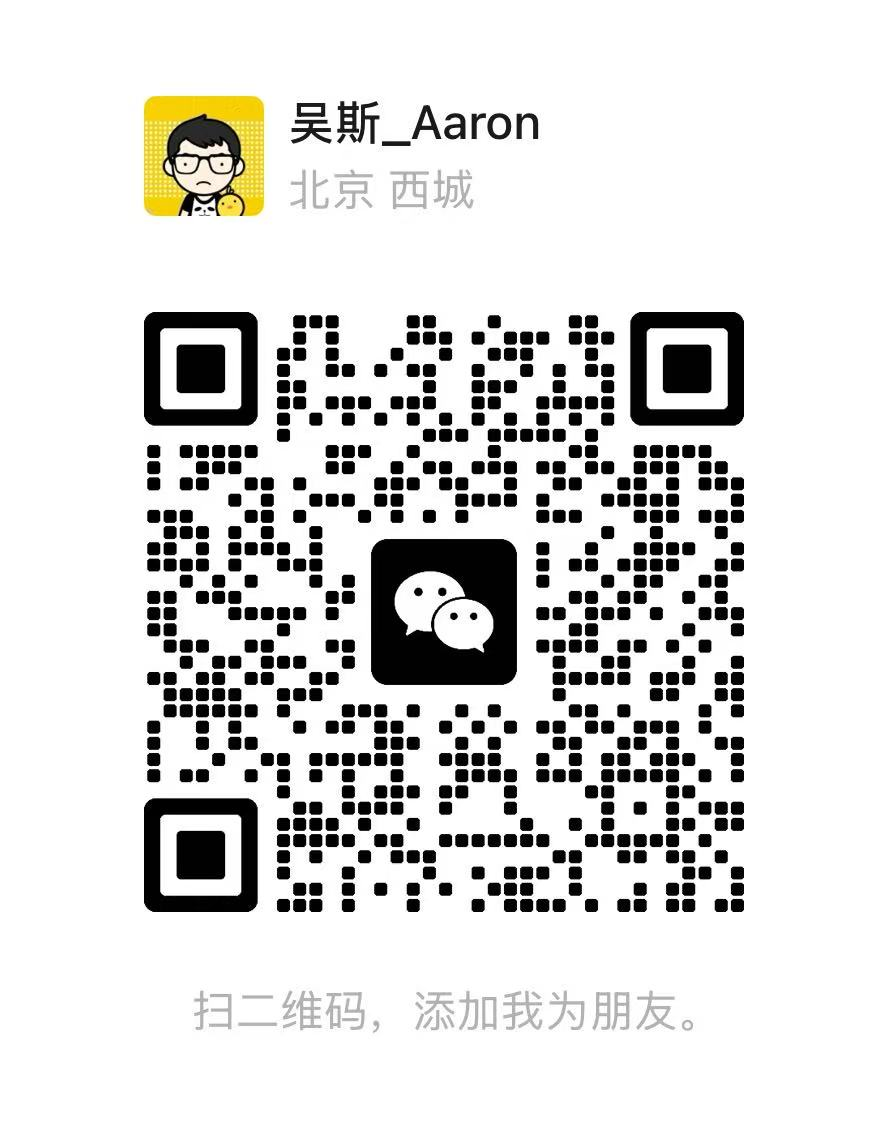
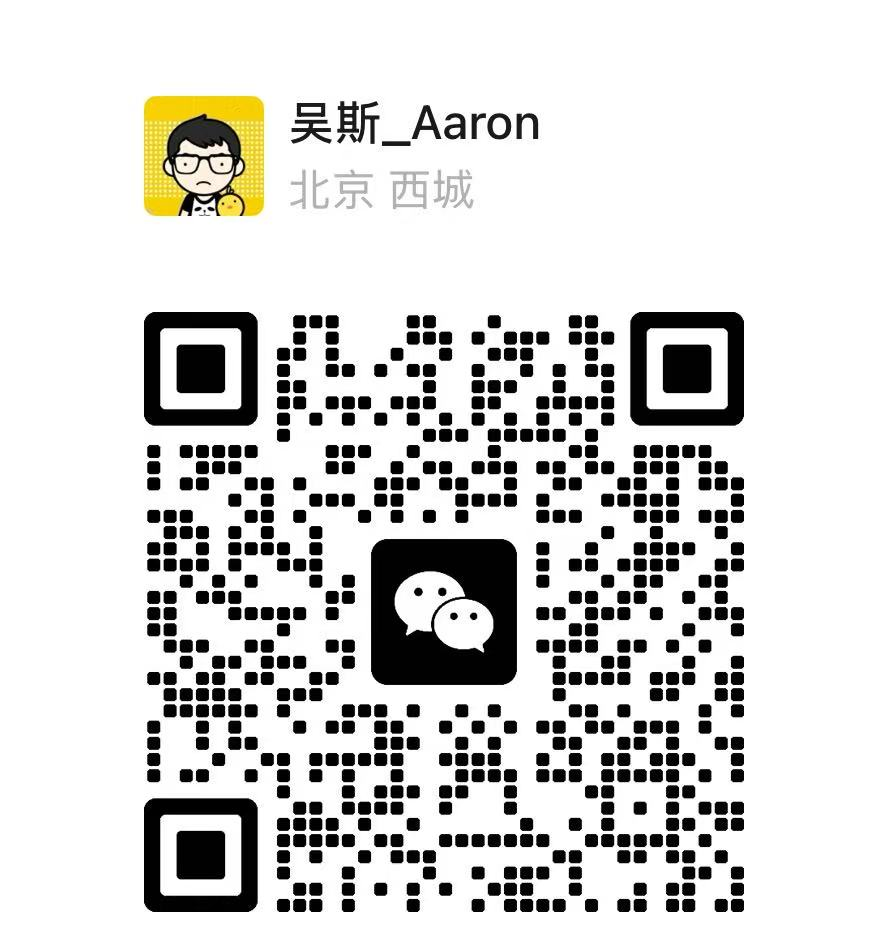
polish(联系): 裁掉二维码自带文字，说明改为'扫码加我·简单说明来意即可'

Changed region(s): [[0.152, 0.2747, 0.8514, 0.9768], [0.152, 0.0611, 0.6081, 0.2442]]

diff --git a/index.html b/index.html
@@ -184,7 +184,7 @@
   .cmethod svg{width:18px;height:18px;stroke:var(--brand)}
   .qr-card{display:inline-flex;flex-direction:column;align-items:center;margin-top:24px;padding:14px;border:1px solid var(--line);border-radius:16px;background:#fff;box-shadow:var(--shadow)}
   .qr-card img{width:220px;max-width:70vw;height:auto;border-radius:8px;display:block}
-  .qr-card figcaption{color:#111;font-size:12.5px;margin-top:8px}
+  .qr-card figcaption{color:#4a5060;font-size:13.5px;margin-top:10px;font-weight:500}
 
   /* Footer */
   footer{border-top:1px solid var(--line);padding:34px 0 46px;color:var(--fg-faint);font-size:13.5px}
@@ -327,7 +327,7 @@
       </div>
       <figure class="qr-card" style="margin:24px auto 0">
         <img src="assets/wechat-qr.png" alt="微信二维码：吴斯 Aaron" />
-        <figcaption>微信扫码 · 吴斯 Aaron</figcaption>
+        <figcaption>扫码加我 · 简单说明来意即可 🙌</figcaption>
       </figure>
     </div>
   </div>
@@ -457,7 +457,7 @@
       </div>
       <figure class="qr-card" style="margin:24px auto 0">
         <img src="assets/wechat-qr.png" alt="微信二维码：吴斯 Aaron" />
-        <figcaption>微信扫码 · 吴斯 Aaron</figcaption>
+        <figcaption>扫码加我 · 简单说明来意即可 🙌</figcaption>
       </figure>
     </div>
   </div>
